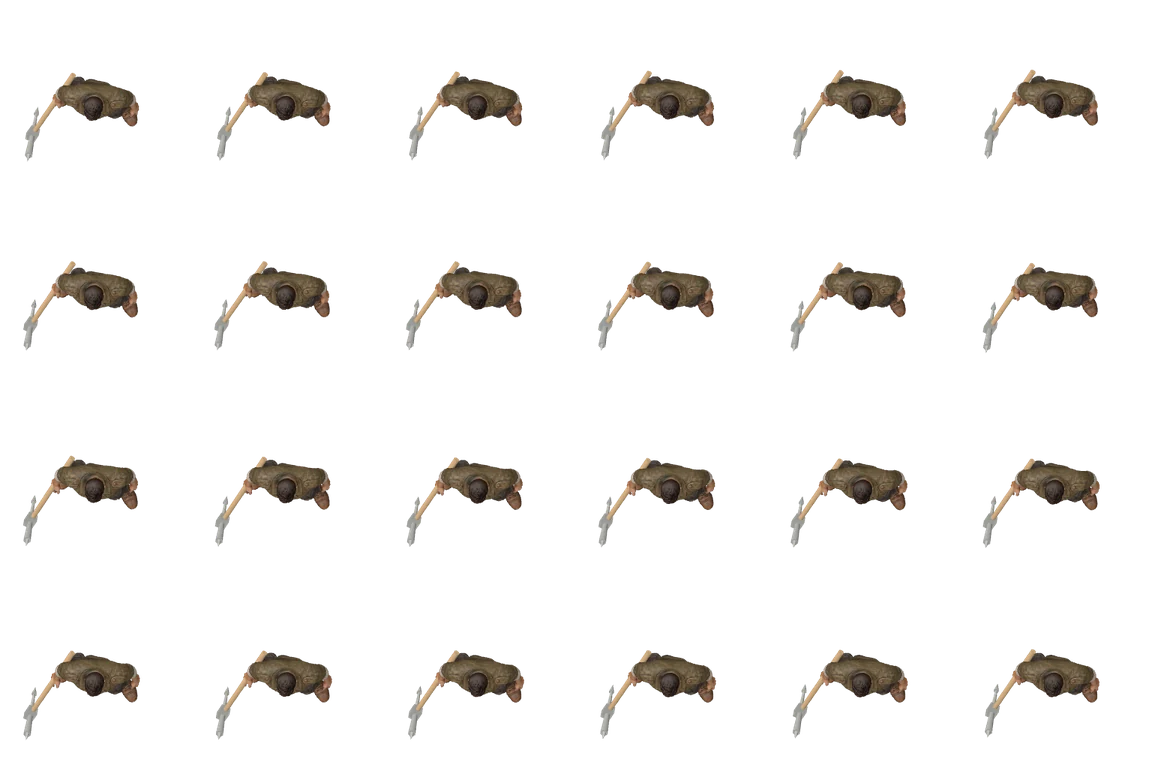
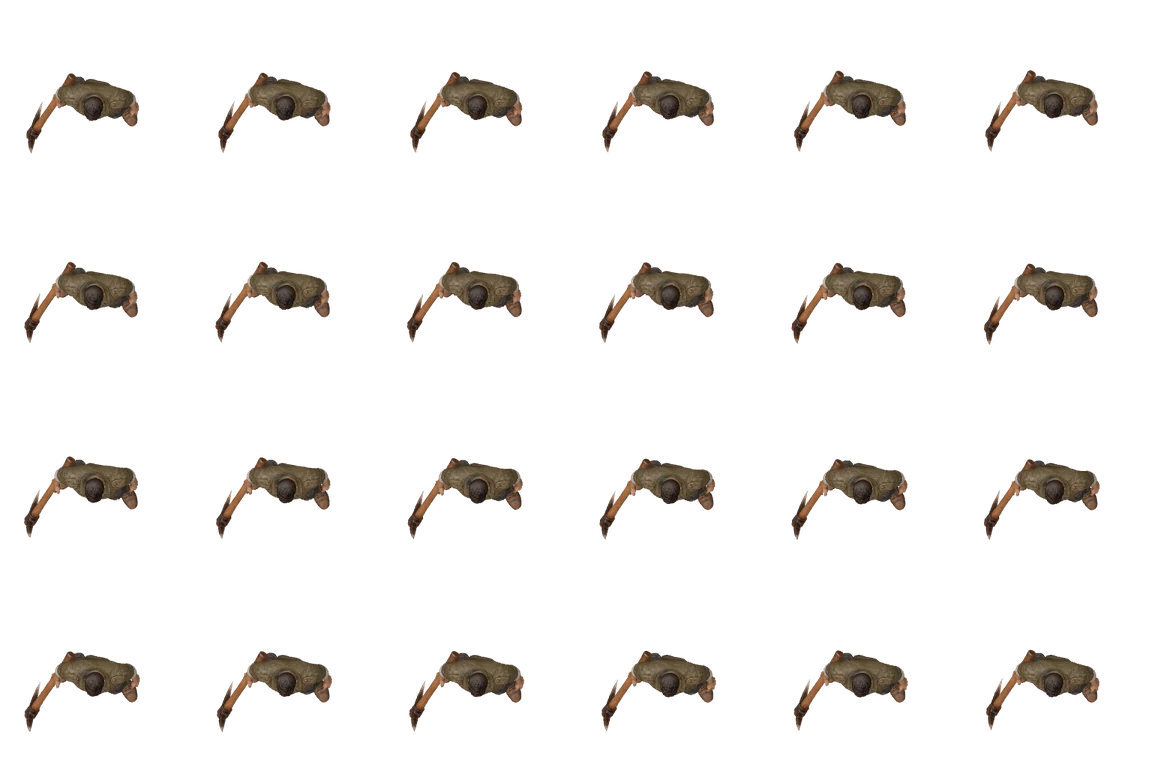
LAST_BASE_0_40_3_new_character_v3

diff --git a/ЧТО_ИЗМЕНЕНО.md b/ЧТО_ИЗМЕНЕНО.md
@@ -9,7 +9,7 @@
 - Топор, кирка, кувалда в руке: персонаж стоит/идёт/бежит с инструментом в правой руке.
 - Работа (рубка, добыча камня, ремонт кувалдой): новый удар двумя руками. Момент касания
   подогнан под момент, когда игра засчитывает удар и играет звук.
-- Топор и молот — модели из Tripo (топор ~70 см, молот ~80 см). Кирка пока временная.
+- Кирка, топор и молот — модели из Tripo (кирка ~90 см, топор ~70 см, молот ~80 см).
 - Автомат, фонарик, пульт, удочка: пока старый персонаж — до анимаций с автоматом.
 - Бронежилет пока не рисуется поверх нового персонажа (защита работает как раньше).
 
